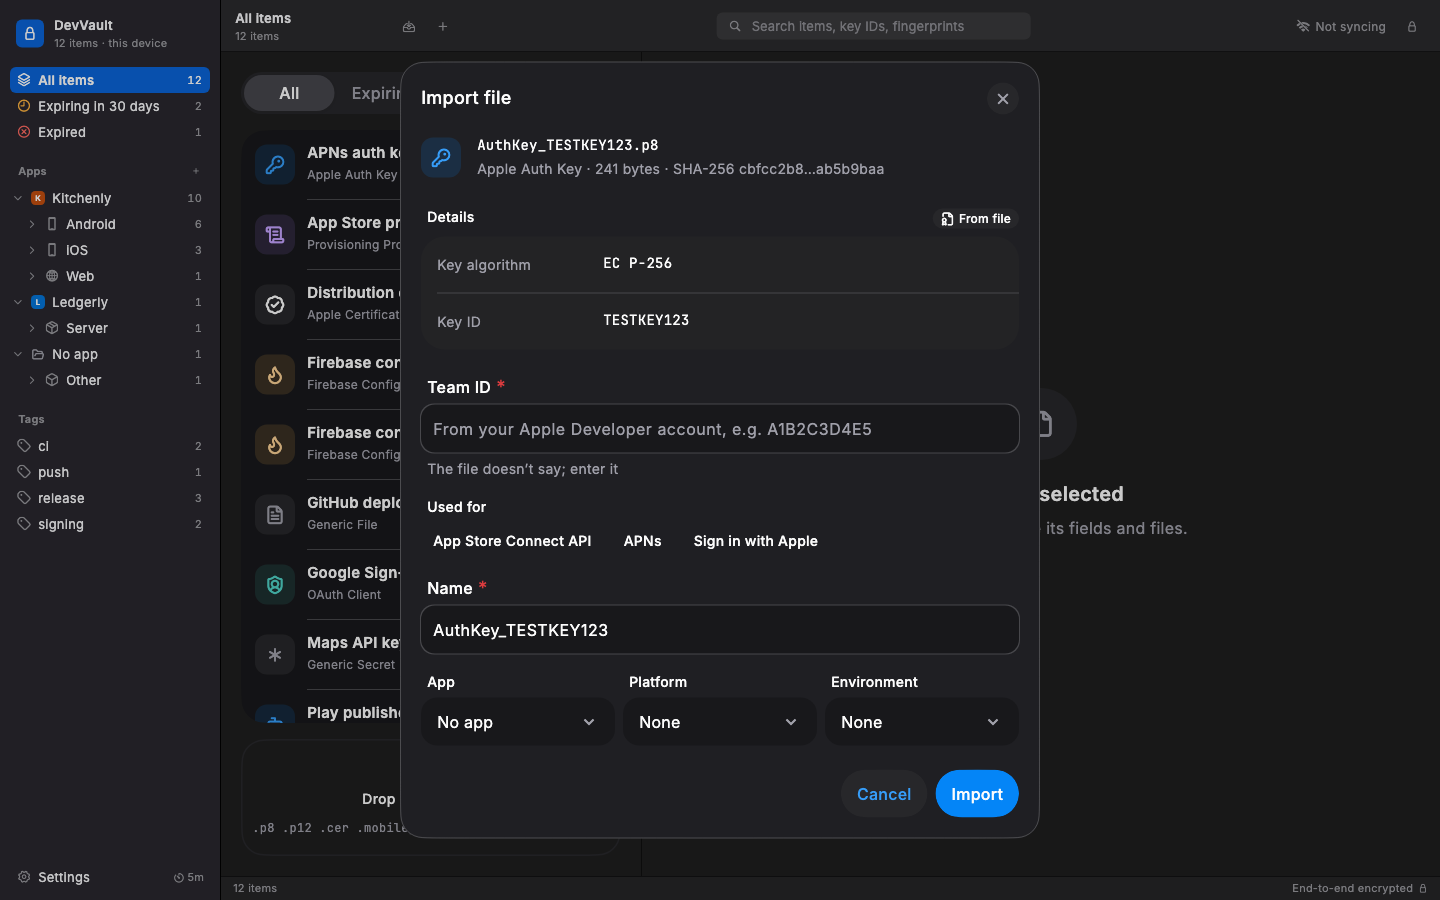
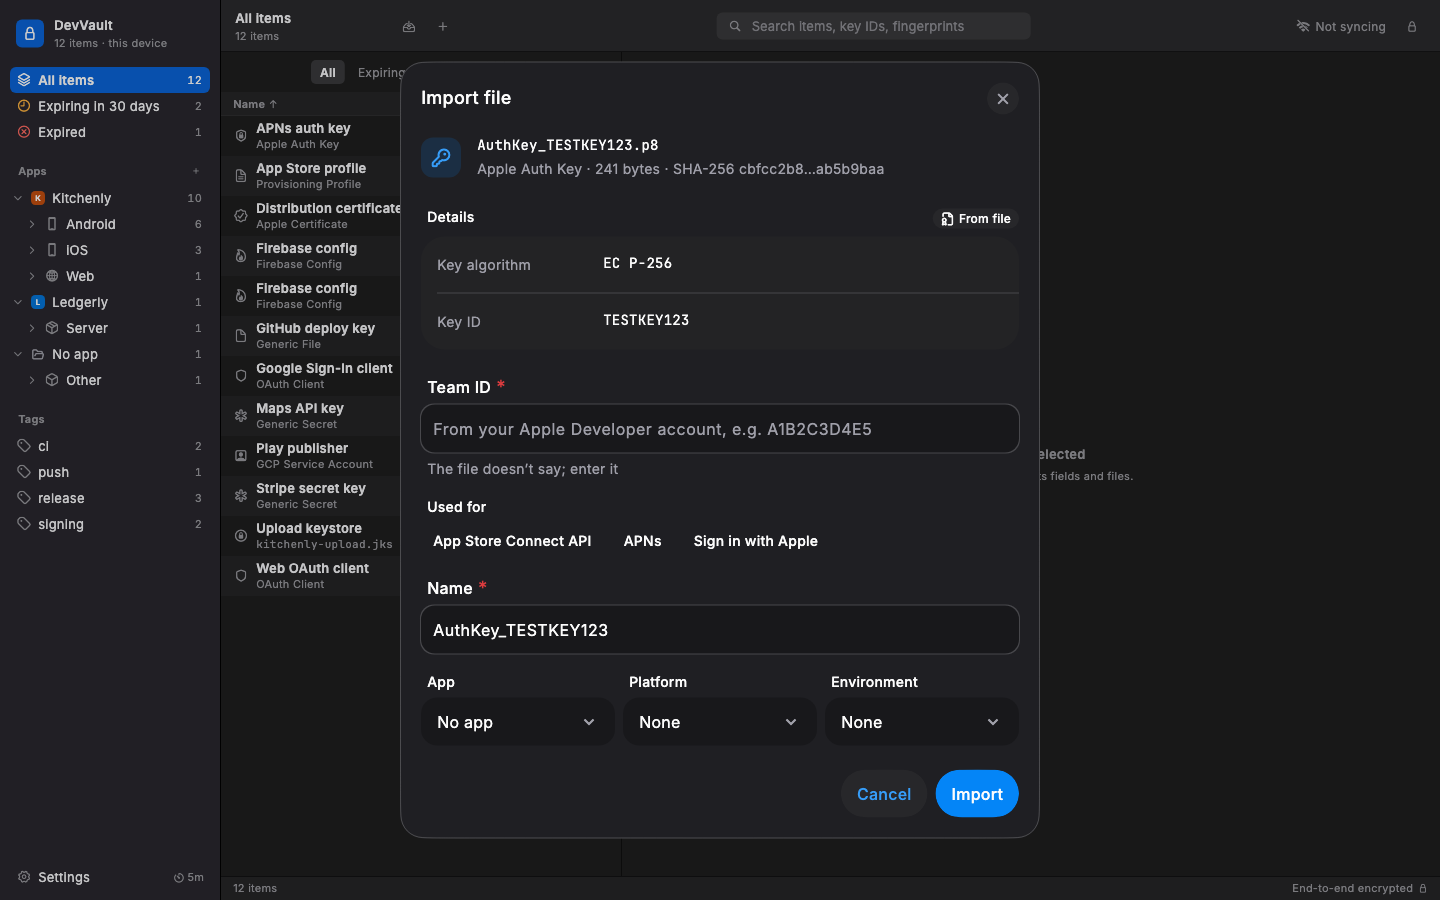
Regenerate goldens in UTC over the N03 table; document the new primitives

diff --git a/test/screenshots/shell_shots_test.dart b/test/screenshots/shell_shots_test.dart
@@ -35,12 +35,7 @@ void main() {
     );
   }
 
-  shot(
-    'N03-vault',
-    Routes.vault(),
-    sample: true,
-    interact: selectProduction,
-  );
+  shot('N03-vault', Routes.vault(), sample: true, interact: selectProduction);
   shot(
     'N03-vault-light',
     Routes.vault(),

diff --git a/docs/design/desktop.md b/docs/design/desktop.md
@@ -99,7 +99,7 @@ Light (dark):
 | Accent, selection | `#0A64D8` | `#0A64D8` (icons `#4D9BFF`) |
 | Success | `#1F9D55` | `#32D74B` |
 | Warning | `#C77700`, badge `#FFF1D6` / `#A15C00` | `#FFB340`, badge `#3D2E12` |
-| Danger | `#D70015` | `#FF6961` |
+| Danger | `#D70015`, badge `#FDE8EA` | `#FF6961`, badge `#3D1A1A` |
 | Conflict | `#8944AB`, badge `#F1E4F8` | `#D49BF5`, badge `#3A2846` |
 
 ¹ The frames use `#6E6E73`, which is 4.25:1 on the sidebar. The app uses
@@ -131,6 +131,11 @@ through `package:devvault/shared/desktop_ui.dart`:
 - `showDesktopPanel` + `DesktopPanel`: a floating panel near the top of the
   window, like Spotlight (quick open, ⌘K). `DesktopRadio` (the conflict
   sheet's choices) and `DesktopProgress` (a spinner).
+- `DesktopPullDownButton`: an icon push button (⋯) that drops a menu of
+  commands, destructive ones in red (the inspector's Replace file… and
+  Delete item…). `DesktopScopeBar`: recessed scope buttons that narrow a
+  list (the table's All / Expiring / Files / Secrets); a segmented control
+  is for settings.
 - `DesktopSymbol` / `DesktopIcon`: icons by meaning, drawn from each OS's
   own set (Cupertino, Fluent, Yaru).
 - `DesktopWindow`: the main window's frame. In the app on macOS it is
@@ -142,8 +147,10 @@ through `package:devvault/shared/desktop_ui.dart`:
 
 The shell (`lib/app/desktop_shell.dart`) puts the source list
 (`VaultSidebar`), toolbar (`ShellToolbar`) and status bar (`ShellStatusBar`)
-in that frame. The list and inspector inside it are still the bc_ui panes
-until they move to N03.
+in that frame. The vault branch is the item table
+(`lib/features/vault/vault_list_pane.dart`) beside the inspector
+(`desktop_inspector.dart`); the status bar shows the selected item's
+created / updated line.
 
 Each control is drawn by the running OS's kit and behaves the same on all
 three (`test/desktop_controls_test.dart`). The macOS kit's goldens are
